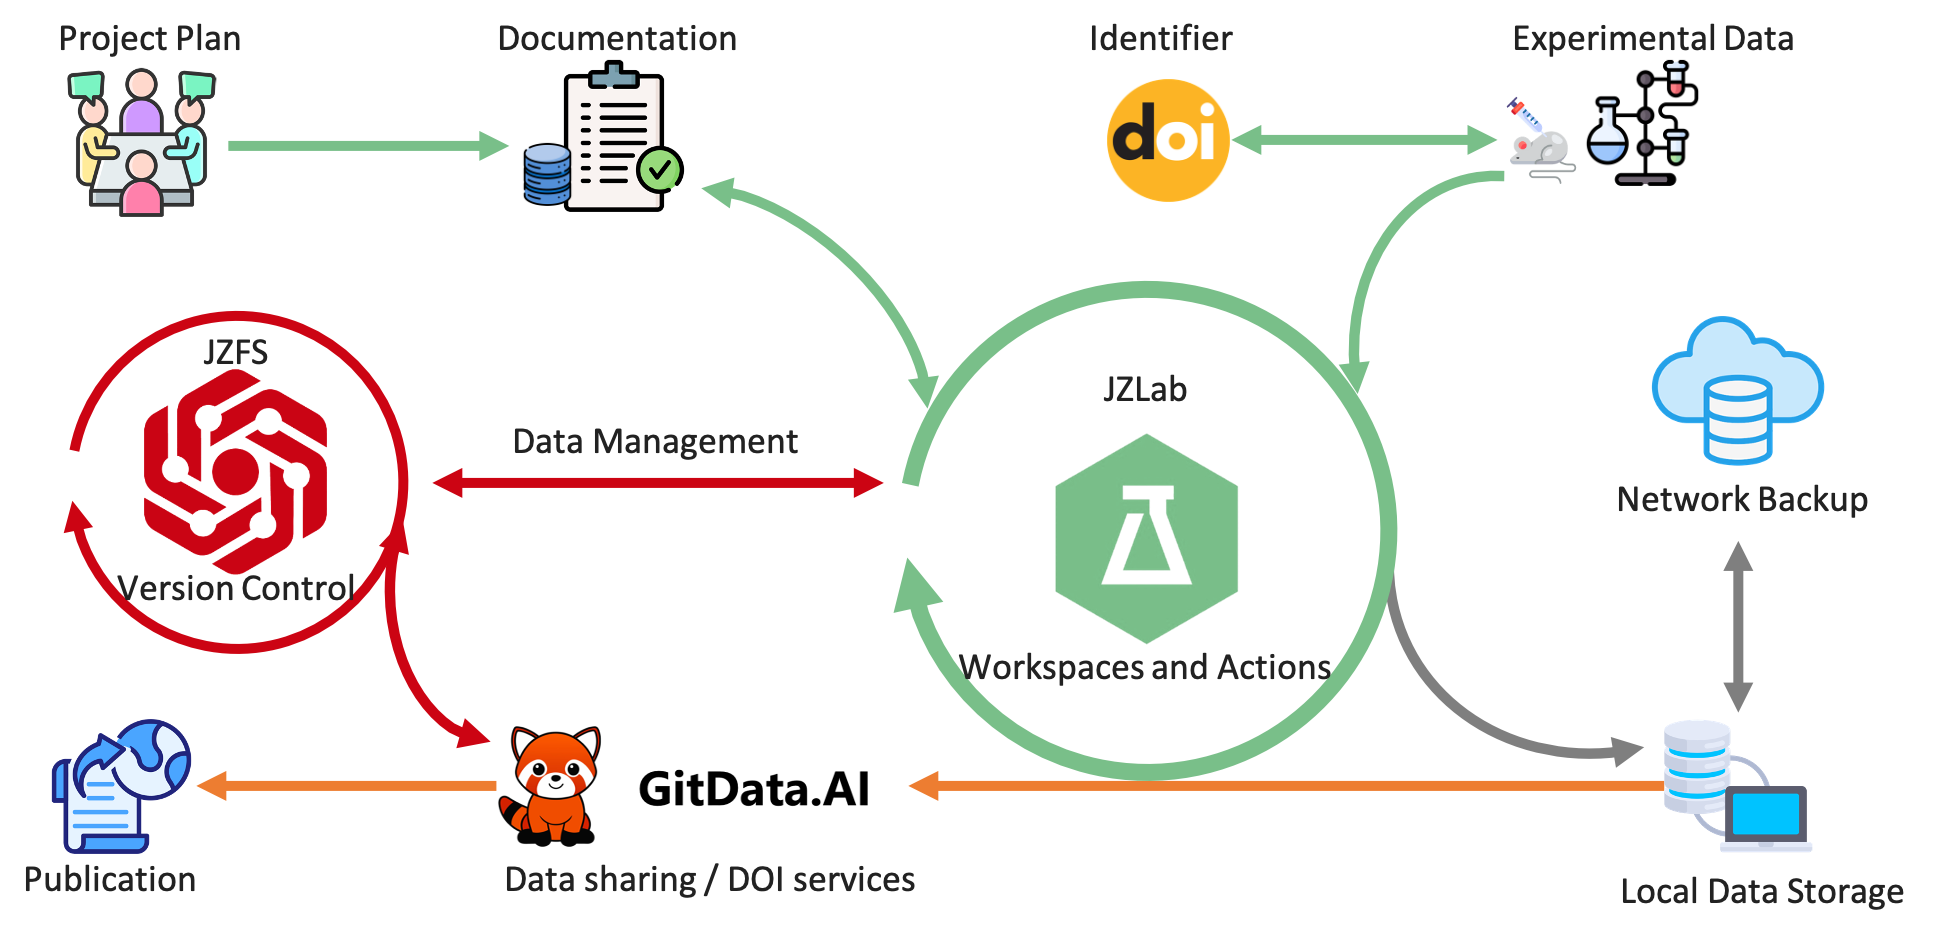
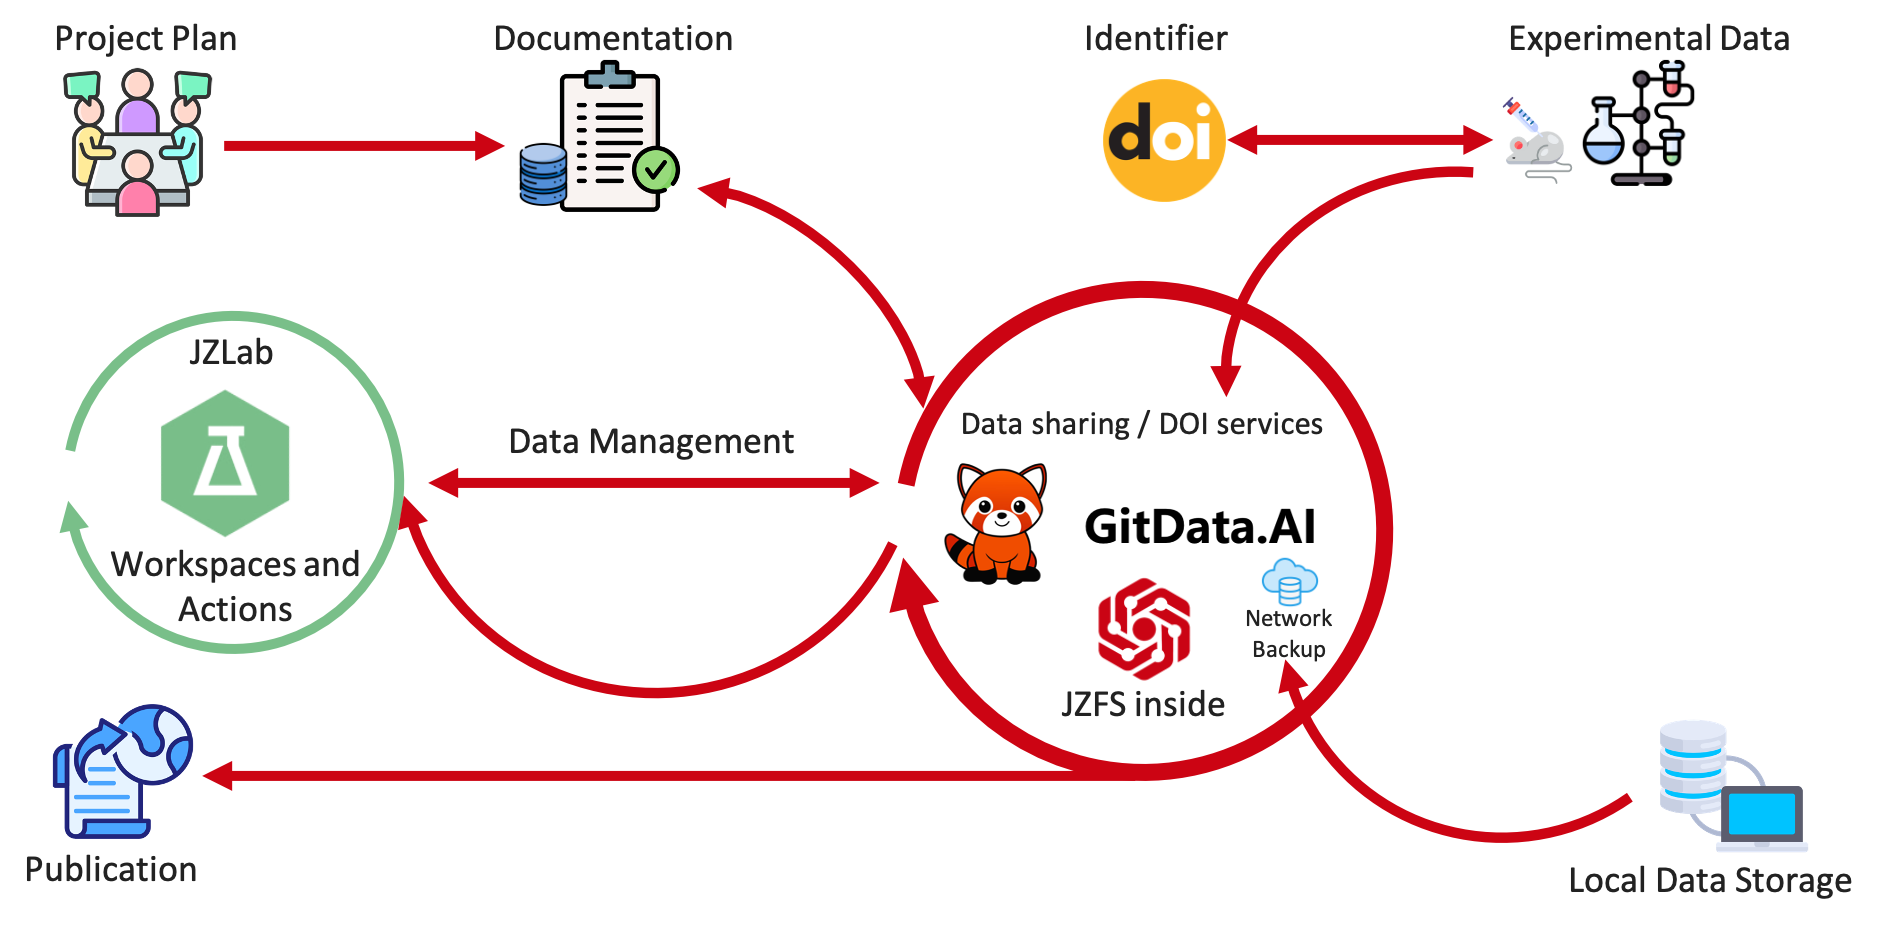
Feat/doc (#191)
* add logo picture and chagne jzfs joint management picture

* change logo file name of dark mode

* change size of picture

* change alignment of picture

* change picture alignment

* update image

* update alignment of image

* update jzfs research flow

Changed region(s): [[0.0, 0.0302, 0.9867, 0.9666], [0.8325, 0.3323, 0.9867, 0.5437], [0.4009, 0.6947, 0.4317, 0.7249]]

diff --git a/docs/jzfs.md b/docs/jzfs.md
@@ -1,0 +1,75 @@
+DataLad is a Python-based tool for the joint management of code, data, and their relationship,
+built on top of a versatile system for data logistics (git-annex) and the most popular distributed
+version control system (Git). It adapts principles of open-source software development and
+distribution to address the technical challenges of data management, data sharing, and digital
+provenance collection across the life cycle of digital objects. DataLad aims to make data
+management as easy as managing code. It streamlines procedures to consume, publish, and
+update data, for data of any size or type, and to link them as precisely versioned, lightweight
+dependencies. DataLad helps to make science more reproducible and FAIR (Wilkinson et al.,
+2016). It can capture complete and actionable process provenance of data transformations to
+enable automatic re-computation. The DataLad project (datalad.org) delivers a completely
+open, pioneering platform for flexible decentralized research data management (RDM) (Hanke,
+Pestilli, et al., 2021). It features a Python and a command-line interface, an extensible
+architecture, and does not depend on any centralized services but facilitates interoperability
+with a plurality of existing tools and services. In order to maximize its utility and target audience, DataLad is available for all major operating systems, and can be integrated into
+established workflows and environments with minimal friction.
+
+
+Statement of Need
+Code, data and computing environments are core components of scientific projects. While
+the collaborative development and use of research software and code is streamlined with established procedures and infrastructures, such as software distributions, distributed version
+control systems, and social coding portals like GitHub, other components of scientific projects
+are not as transparently managed or accessible. Data consumption is complicated by disconnected data portals that require a large variety of different data access and authentication
+methods. Compared with code in software development, data tend not to be as precisely
+identified because data versioning is rarely or only coarsely practiced. Scientific computation
+is not reproducible enough, because data provenance, the information of how a digital file
+came to be, is often incomplete and rarely automatically captured. Last but not least, in
+the absence of standardized data packages, there is no uniform way to declare actionable
+data dependencies and derivative relationships between inputs and outputs of a computation. DataLad aims to solve these issues by providing streamlined, transparent management
+of code, data, computing environments, and their relationship. It provides targeted interfaces
+and interoperability adapters to established scientific and commercial tools and services to
+set up unobstructed, unified access to all elements of scientific projects. This unique set of
+features enables workflows that are particularly suited for reproducible science, such as actionable process provenance capture for arbitrary command execution that affords automatic
+re-execution. To this end, it builds on and extends two established tools for version control
+and transport logistics, Git and git-annex.
+
+
+Why Git and git-annex?
+Git is the most popular version control system for software development1
+. It is a distributed
+content management system, specifically tuned towards managing and collaborating on text
+files, and excels at making all committed content reliably and efficiently available to all clones
+of a repository. At the same time, Git is not designed to efficiently handle large (e.g., over
+a gigabyte) or binary files (see, e.g., Kenlon, 2016). This makes it hard or impossible to
+use Git directly for distributed data storage with tailored access to individual files. Gitannex takes advantage of Git’s ability to efficiently manage textual information to overcome
+this limitation. File content handled by git-annex is placed into a managed repository annex,
+which avoids committing the file content directly to Git. Instead, git-annex commits a compact
+reference, typically derived from the checksum of a file’s content, that enables identification
+and association of a file name with the content. Using these identifiers, git-annex tracks
+content availability across all repository clones and external resources such as URLs pointing
+to individual files on the web. Upon user request, git-annex automatically manages data
+transport to and from a local repository annex at a granularity of individual files. With this
+simple approach, git-annex enables separate and optimized implementations for identification
+and transport of arbitrarily large files, using an extensible set of protocols, while retaining the
+distributed nature and compatibility with versatile workflows for versioning and collaboration
+provided by Git.
+
+
+What does DataLad add to Git and git-annex?
+Easy to use modularization. Research workflows impose additional demands for an efficient research data management platform besides version control and data transport. Many
+research datasets contain millions of files, but a large number of files precludes managing
+such a dataset in a single Git repository, even if the total storage demand is not huge. Partitioning such datasets into smaller, linked components (e.g., one subdataset per sample in
+a dataset comprising thousands) allows for scalable management. Research datasets and
+projects can also be heterogeneous, comprising different data sources or evolving data across
+different processing stages, and with different pace. Beyond scalability, modularization into
+homogeneous components also enables efficient reuse of a selected subset of datasets and for
+recording a derivative relationship between datasets. Git’s submodule mechanism provides a
+way to nest individual repositories via unambiguously versioned linkage, but Git operations
+must still be performed within each individual repository. To achieve modularity without impeding usability, DataLad simplifies working with the resulting hierarchies of Git repositories
+via recursive operations across dataset boundaries. With this, DataLad provides a “monorepo”-like user experience in datasets with arbitrarily deep nesting, and makes it trivial to
+operate on individual files deep in the hierarchy or entire trees of datasets. A testament of
+this is datasets.datalad.org, created as the project’s initial goal to provide a data distribution
+with unified access to already available public data archives in neuroscience, such as crcns.org
+and openfmri.org. It is curated by the DataLad team and provides, at the time of publication,
+streamlined access to over 260 TBs of data across over 5,000 subdatasets from a wide range
+of projects and dozens of archives in a fully modularized way.

diff --git a/README.md b/README.md
@@ -94,7 +94,7 @@ all experimental metadata about the complete timeline of longitudinal and multim
 including MRI, histology, electrophysiology, and behavior.
 
 ![](./docs/jzfs-research-flow.png)
-Project planning and experimental details are recorded in an in-house relational cloud-based database.
+Project planning and experimental details are recorded in an in-house relational cloud-based database of GitData.AI.
 
 A key element for both the database and the data storage is the
 identifier, the study ID for each animal, used in a standardized fle name structure to make the data findable.
